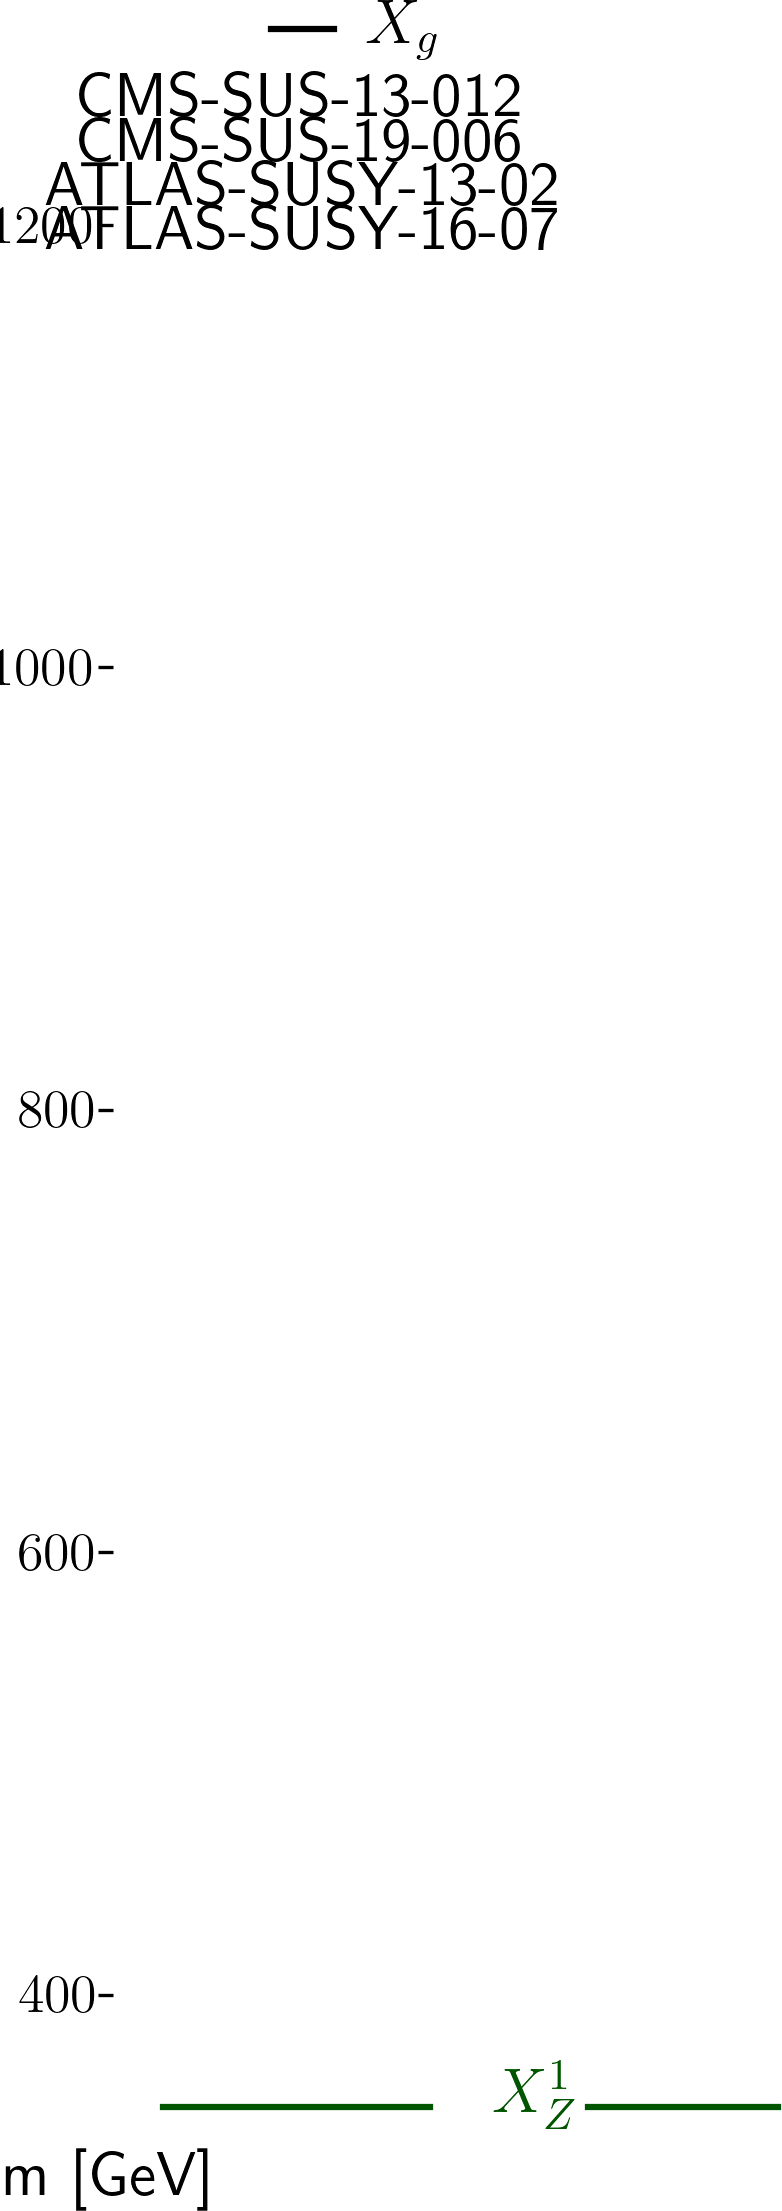
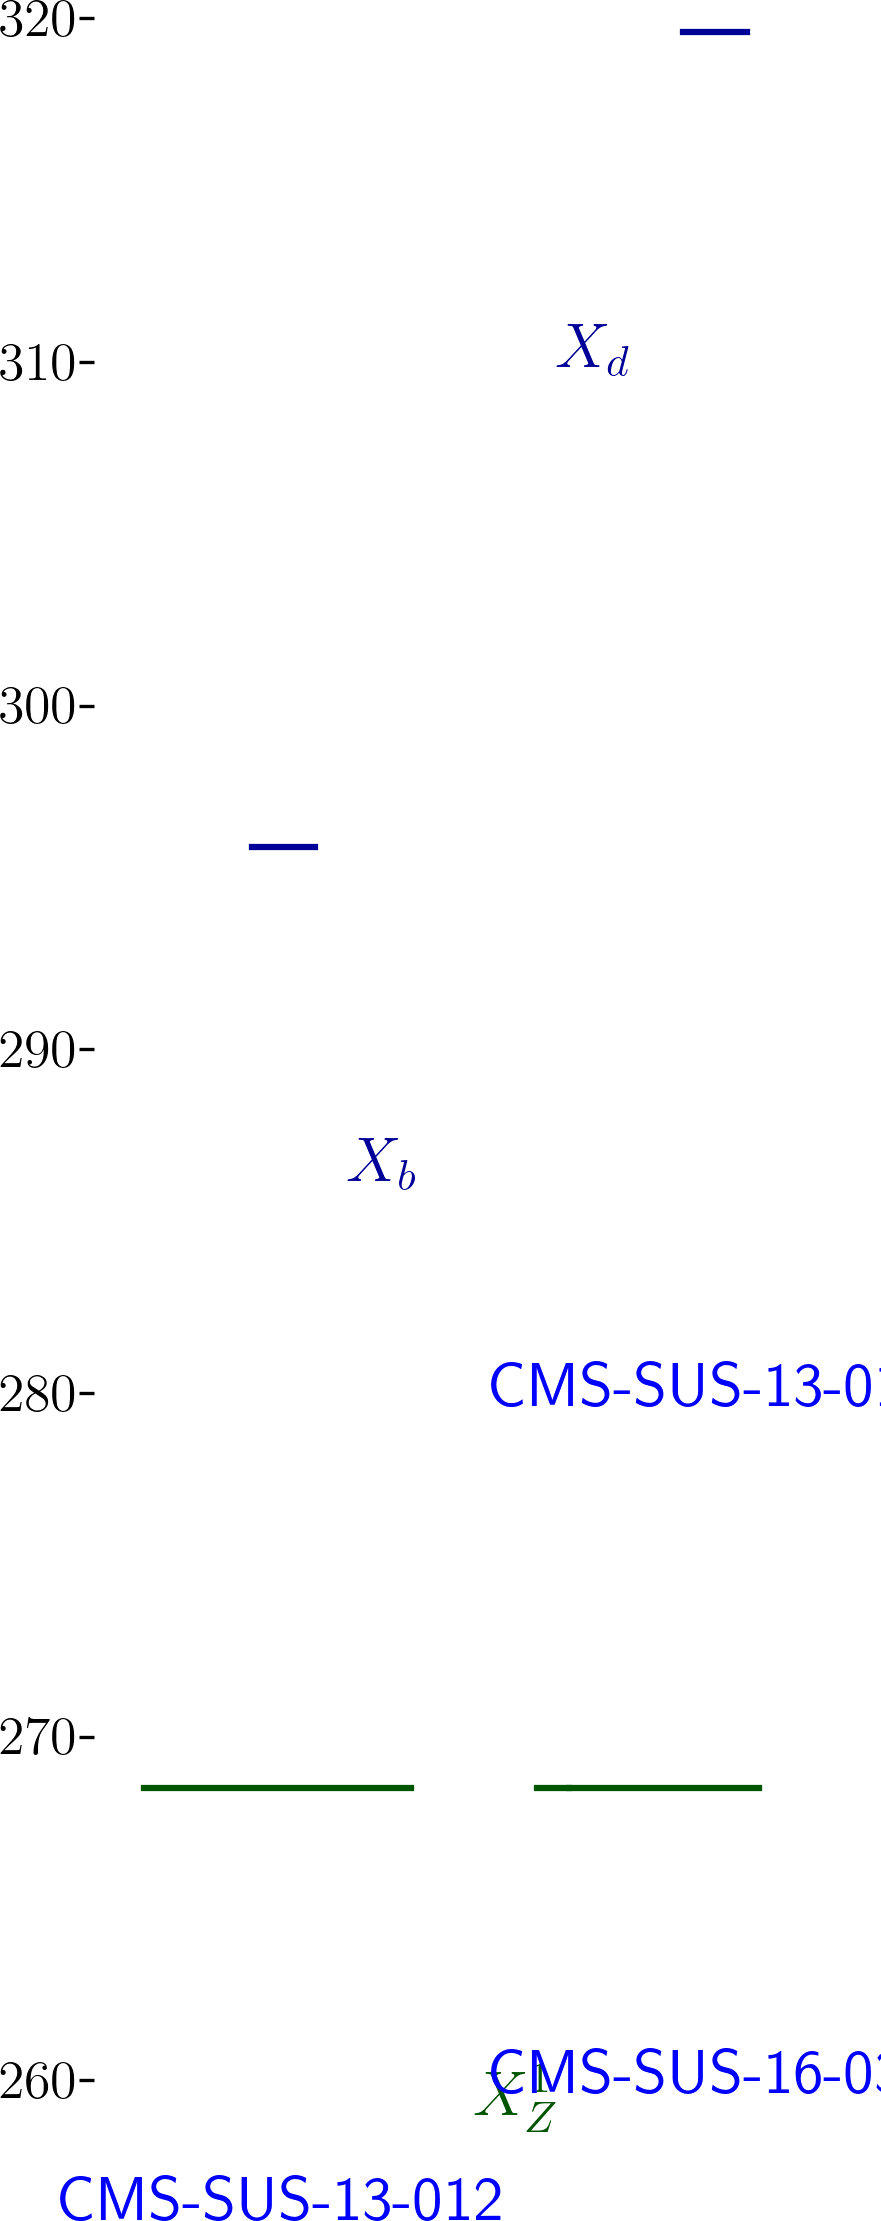
automated update by plotHiscore.py

diff --git a/protomodels/latest/index.html b/protomodels/latest/index.html
@@ -1,29 +1,31 @@
 <html>
 <body>
 <center>
-<table><td><h1>Current best protomodel: K=6.46</h1><td><img height=60px src=https://smodels.github.io/pics/banner.png></table>
+<table><td><h1>Current best protomodel: K=5.81</h1><td><img height=60px src=https://smodels.github.io/pics/banner.png></table>
 </center>
-<b><a href=./hiscore.slha>ProtoModel</a> <a href=./pmodel.py>(dict)</a> produced with <a href=https://smodels.github.io/docs/Validation124fake20>database v1.2.4fake20</a>, combination strategy <a href=./matrix_aggressive.png>aggressive</a> in walker 49 step 1.</b> K plots for: <a href=./M1000022.png?6725477>X<sub>Z</sub><sup>1</sup></a>, <a href=./M1000021.png?6725477>X<sub>g</sub></a>. HPD plots for: <a href=./llhd1000021.png?6725477>X<sub>g</sub></a>. SSM plots for: <a href=./ssm_1000021_1000021.png?6725477>(X<sub>g</sub>,X<sub>g</sub>)</a><br>
+<b><a href=./hiscore.slha>ProtoModel</a> <a href=./pmodel.py>(dict)</a> produced with <a href=https://smodels.github.io/docs/Validation124fake2>database v1.2.4fake2</a>, combination strategy <a href=./matrix_aggressive.png>aggressive</a> in walker 24 step 173.</b> K plots for: <a href=./M1000022.png?6725493>X<sub>Z</sub><sup>1</sup></a>, <a href=./M1000006.png?6725493>X<sub>t</sub></a>, <a href=./M1000001.png?6725493>X<sub>d</sub></a>. HPD plots for: <a href=./llhd1000006.png?6725493>X<sub>t</sub></a>, <a href=./llhd1000001.png?6725493>X<sub>d</sub></a>. SSM plots for: <br>
 <table width=80%>
 <tr><td>
-<br><b>18 predictions available. Highest r values are:</b><br><ul>
-<li><a href=http://cms-results.web.cern.ch/cms-results/public-results/publications/SUS-16-033/index.html>CMS-SUS-16-033</a>:T1 r=1.04, r<sub>exp</sub>=N/A<br>
-<li><a href=https://atlas.web.cern.ch/Atlas/GROUPS/PHYSICS/PAPERS/SUSY-2016-07/>ATLAS-SUSY-2016-07</a>:TGQ,T1,T2 r=0.87, r<sub>exp</sub>=N/A<br>
-<li><a href=http://cms-results.web.cern.ch/cms-results/public-results/publications/SUS-16-036/index.html>CMS-SUS-16-036</a>:T1 r=0.80, r<sub>exp</sub>=N/A<br>
-<li><a href=http://cms-results.web.cern.ch/cms-results/public-results/publications/SUS-16-033/index.html>CMS-SUS-16-033</a>:TGQ,T2,T1 r=0.75, r<sub>exp</sub>=N/A<br>
-<li><a href=https://atlas.web.cern.ch/Atlas/GROUPS/PHYSICS/PAPERS/SUSY-2016-07/>ATLAS-SUSY-2016-07</a>:T1 r=0.70, r<sub>exp</sub>=N/A<br>
+<br><b>17 predictions available. Highest r values are:</b><br><ul>
+<li><a href=http://cms-results.web.cern.ch/cms-results/public-results/publications/SUS-16-049/index.html>CMS-SUS-16-049</a>:T2cc r=1.30, r<sub>exp</sub>=0.84<br>
+<li><a href=https://twiki.cern.ch/twiki/bin/view/CMSPublic/PhysicsResultsSUS13012>CMS-SUS-13-012</a>:T2bb,T2 r=1.15, r<sub>exp</sub>=1.02<br>
+<li><a href=https://atlas.web.cern.ch/Atlas/GROUPS/PHYSICS/PAPERS/SUSY-2013-05/>ATLAS-SUSY-2013-05</a>:T2bb r=1.04, r<sub>exp</sub>=1.08<br>
+<li><a href=https://atlas.web.cern.ch/Atlas/GROUPS/PHYSICS/PAPERS/SUSY-2013-21/>ATLAS-SUSY-2013-21</a>:T2bb r=1.01, r<sub>exp</sub>=1.00<br>
+<li><a href=http://cms-results.web.cern.ch/cms-results/public-results/publications/SUS-16-036/index.html>CMS-SUS-16-036</a>:T2cc r=0.85, r<sub>exp</sub>=0.85<br>
 </ul>
 <td><br><b>K values without analyses: (contribution)</b><br>
 <ul>
-<li> <a href=https://atlas.web.cern.ch/Atlas/GROUPS/PHYSICS/PAPERS/SUSY-2013-02/>ATLAS-SUSY-2013-02</a>: 6.37 (1%)
-<li> <a href=https://twiki.cern.ch/twiki/bin/view/CMSPublic/PhysicsResultsSUS13012>CMS-SUS-13-012</a>: 5.90 (6%)
-<li> <a href=https://atlas.web.cern.ch/Atlas/GROUPS/PHYSICS/PAPERS/SUSY-2016-07/>ATLAS-SUSY-2016-07</a>: 5.14 (15%)
-<li> <a href=http://cms-results.web.cern.ch/cms-results/public-results/publications/SUS-19-006/index.html>CMS-SUS-19-006</a>: -0.61 (78%)
-<td><img width=600px src=./texdoc.png?1599725477>
-<br><font size=-1>Last updated: Thu Sep 10 10:11:17 2020</font>
+<li> <a href=>ATLAS-SUSY-2015-06</a>: 4.81 (7%)
+<li> <a href=https://twiki.cern.ch/twiki/bin/view/CMSPublic/PhysicsResultsSUS13012>CMS-SUS-13-012</a>: 4.66 (8%)
+<li> <a href=>ATLAS-SUSY-2013-02</a>: 4.59 (8%)
+<li> <a href=>CMS-SUS-17-010</a>: 4.38 (10%)
+<li> <a href=>ATLAS-SUSY-2016-16</a>: 3.03 (19%)
+<li> <a href=http://cms-results.web.cern.ch/cms-results/public-results/publications/SUS-16-036/index.html>CMS-SUS-16-036</a>: -1.57 (49%)
+<td><img width=600px src=./texdoc.png?1599725493>
+<br><font size=-1>Last updated: Thu Sep 10 10:11:33 2020</font>
 </table><table style="width:80%">
-<td width=45%><img height=580px src=./ruler.png?1599725477><td width=55%><img height=380px src=./decays.png?1599725477>
-<font size=-3><iframe type="text/html" height="220px" width="100%s" frameborder="0" src="./rawnumbers.html?1599725477"></iframe></font>
+<td width=45%><img height=580px src=./ruler.png?1599725493><td width=55%><img height=380px src=./decays.png?1599725493>
+<font size=-3><iframe type="text/html" height="220px" width="100%s" frameborder="0" src="./rawnumbers.html?1599725493"></iframe></font>
 </table>
 </body>
 </html>

diff --git a/protomodels/latest/rawnumbers.html b/protomodels/latest/rawnumbers.html
@@ -1,8 +1,8 @@
 <table>
 <tr><th>Analysis Name</th><th>Type</th><th>Dataset</th><th>Observed</th><th>Expected</th><th>Approx &sigma;</th><th>Particles</th>
 </tr>
-<tr><td><a href=https://atlas.web.cern.ch/Atlas/GROUPS/PHYSICS/PAPERS/SUSY-2013-02/>ATLAS-SUSY-2013-02</a></td><td>em</td> <td>SR6jtp</td><td>6</td><td>4.9 +/- 1.6</td><td style="text-align:right">0.4 &sigma;</td><td style="text-align:right">X<sub>g</sub></td></tr>
-<tr><td><a href=https://atlas.web.cern.ch/Atlas/GROUPS/PHYSICS/PAPERS/SUSY-2016-07/>ATLAS-SUSY-2016-07</a></td><td>em</td> <td>2j_Meff_1200</td><td>571</td><td>526 +/- 31</td><td style="text-align:right">1.2 &sigma;</td><td style="text-align:right">X<sub>g</sub></td></tr>
-<tr><td><a href=https://twiki.cern.ch/twiki/bin/view/CMSPublic/PhysicsResultsSUS13012>CMS-SUS-13-012</a></td><td>ul</td> <td>-</td><td> 5.1 fb </td><td> 2.8 fb</td><td style="text-align:right">1.6 &sigma;</td><td style="text-align:right">X<sub>g</sub></td></tr>
-<tr><td><a href=http://cms-results.web.cern.ch/cms-results/public-results/publications/SUS-19-006/index.html>CMS-SUS-19-006</a></td><td>ul</td> <td>-</td><td> 6.9 fb </td><td> 3.1 fb</td><td style="text-align:right">2.4 &sigma;</td><td style="text-align:right">X<sub>g</sub></td></tr>
+<tr><td><a href=https://atlas.web.cern.ch/Atlas/GROUPS/PHYSICS/PAPERS/SUSY-2013-21/>ATLAS-SUSY-2013-21</a></td><td>em</td> <td>M3</td><td>1985</td><td>1770 +/- 81</td><td style="text-align:right">2.4 &sigma;</td><td style="text-align:right">X<sub>b</sub></td></tr>
+<tr><td><a href=https://atlas.web.cern.ch/Atlas/GROUPS/PHYSICS/PAPERS/SUSY-2016-07/>ATLAS-SUSY-2016-07</a></td><td>em</td> <td>2j_Meff_1200</td><td>475</td><td>526 +/- 31</td><td style="text-align:right">-1.3 &sigma;</td><td style="text-align:right">X<sub>d</sub></td></tr>
+<tr><td><a href=https://twiki.cern.ch/twiki/bin/view/CMSPublic/PhysicsResultsSUS13012>CMS-SUS-13-012</a></td><td>em</td> <td>6NJet8_500HT800 ...</td><td>4</td><td>0.8 +/- 3.3</td><td style="text-align:right">0.9 &sigma;</td><td style="text-align:right">X<sub>d</sub>, X<sub>b</sub></td></tr>
+<tr><td><a href=http://cms-results.web.cern.ch/cms-results/public-results/publications/SUS-16-036/index.html>CMS-SUS-16-036</a></td><td>ul</td> <td>-</td><td> 5868.1 fb </td><td> 2770.6 fb</td><td style="text-align:right">2.2 &sigma;</td><td style="text-align:right">X<sub>d</sub></td></tr>
 </table>

diff --git a/protomodels/latest/pmodel.py b/protomodels/latest/pmodel.py
@@ -1,1 +1,1 @@
-{'masses': {1000022: 339.175, 1000021: 1278.48}, 'ssmultipliers': {(1000022, 1000022): 0.361, (1000021, 1000021): 0.176, (1000021, 1000022): 0.252}, 'decays': {1000022: {}, 1000021: {(1000022, 21): 0.314, (1000022, 1): 0.686}}, 'timestamp': 'Thu Sep 10 10:10:57 2020', 'Z': 3.034, 'K': 6.455, 'step': 1, 'codever': '1.0', 'dbver': '1.2.4fake20'}
+{'masses': {1000022: 258.46, 1000001: 309.593, 1000005: 285.944}, 'ssmultipliers': {(1000022, 1000022): 0.0, (1000001, 1000001): 0.25, (-1000001, 1000001): 0.25, (-1000001, -1000001): 0.25, (1000001, 1000022): 0.25, (-1000001, 1000022): 0.25, (1000005, 1000005): 2.246, (-1000005, 1000005): 2.246, (-1000005, -1000005): 2.246, (1000005, 1000022): 2.246, (-1000005, 1000022): 2.246, (1000001, 1000005): 2.246, (-1000005, 1000001): 2.246, (-1000001, 1000005): 2.246, (-1000005, -1000001): 2.246}, 'decays': {1000022: {}, 1000001: {1000022: 1.0}, 1000005: {1000022: 1.0}}, 'timestamp': 'Thu Sep 10 10:10:51 2020', 'Z': 3.071, 'K': 5.805, 'step': 173, 'codever': '1.0', 'dbver': '1.2.4fake2'}
